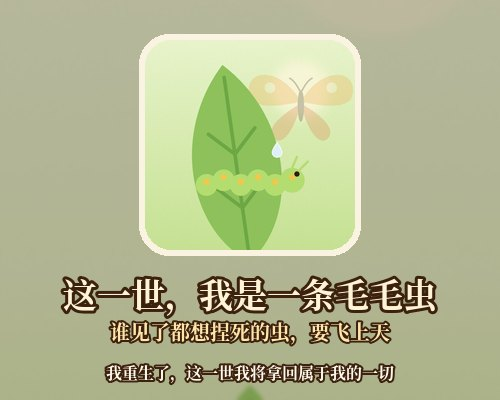
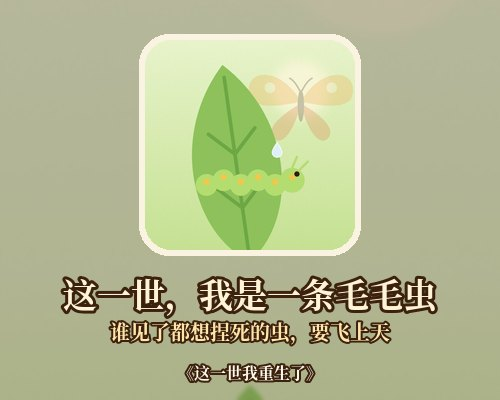
标题字与分享图按新游戏名重绘：上行「这一世」下行「我重生了」，命格分享卡底栏改为《这一世我重生了》（含鳄鱼）

Changed region(s): [[0.21, 0.9, 0.81, 0.96]]

diff --git a/tools/share/gen_share.py b/tools/share/gen_share.py
@@ -10,7 +10,7 @@ from PIL import Image, ImageDraw, ImageFont, ImageFilter
 ROOT = os.path.join(os.path.dirname(__file__), '..', '..')
 OUT = os.path.join(ROOT, 'build-templates', 'wechatgame', 'share')
 FONT = '/usr/share/fonts/opentype/noto/NotoSerifCJK-Bold.ttc'
-GAME = '我重生了，这一世我将拿回属于我的一切'
+GAME = '《这一世我重生了》'
 W, H = 500, 400
 
 def find(*cands):
